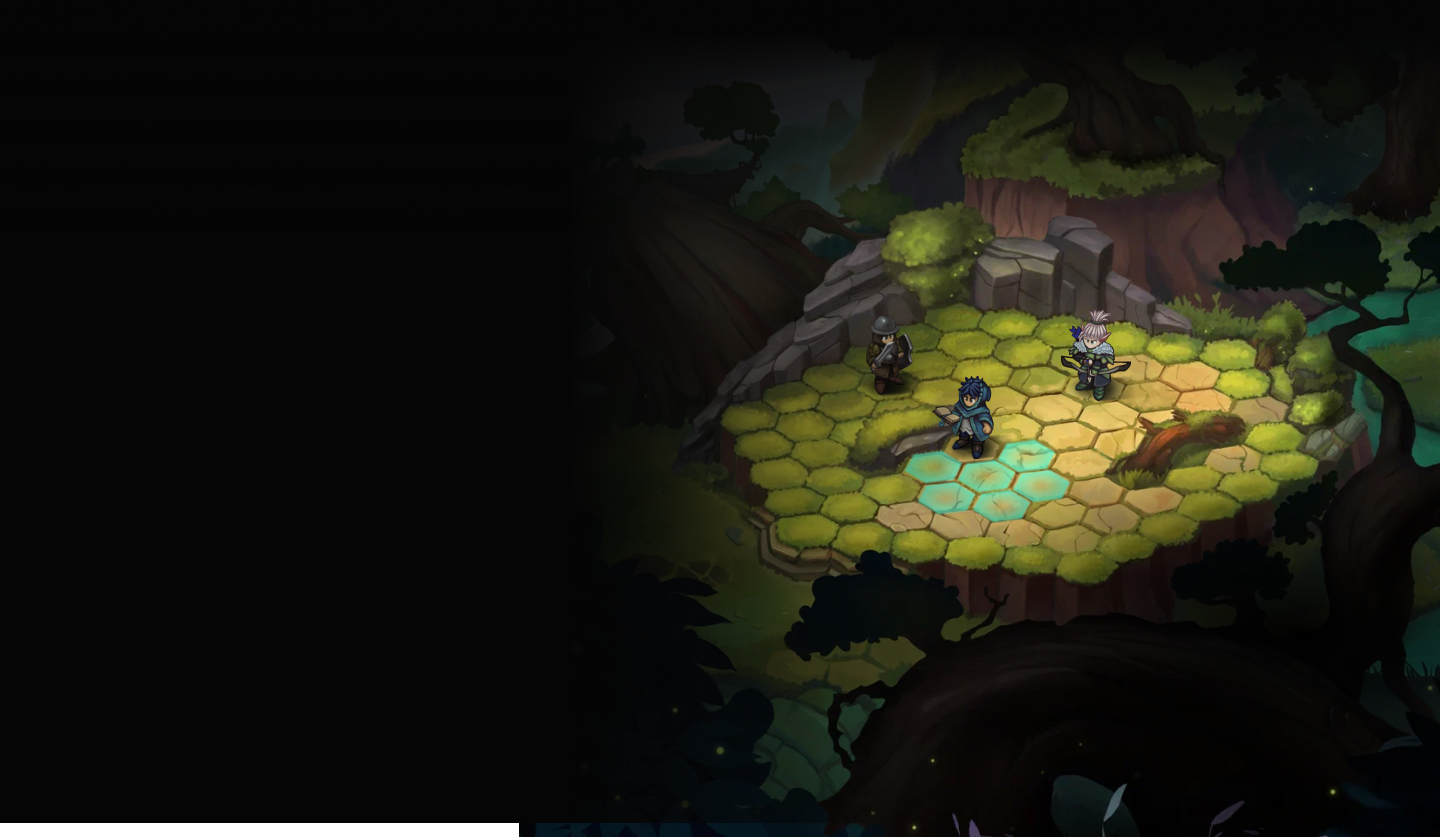
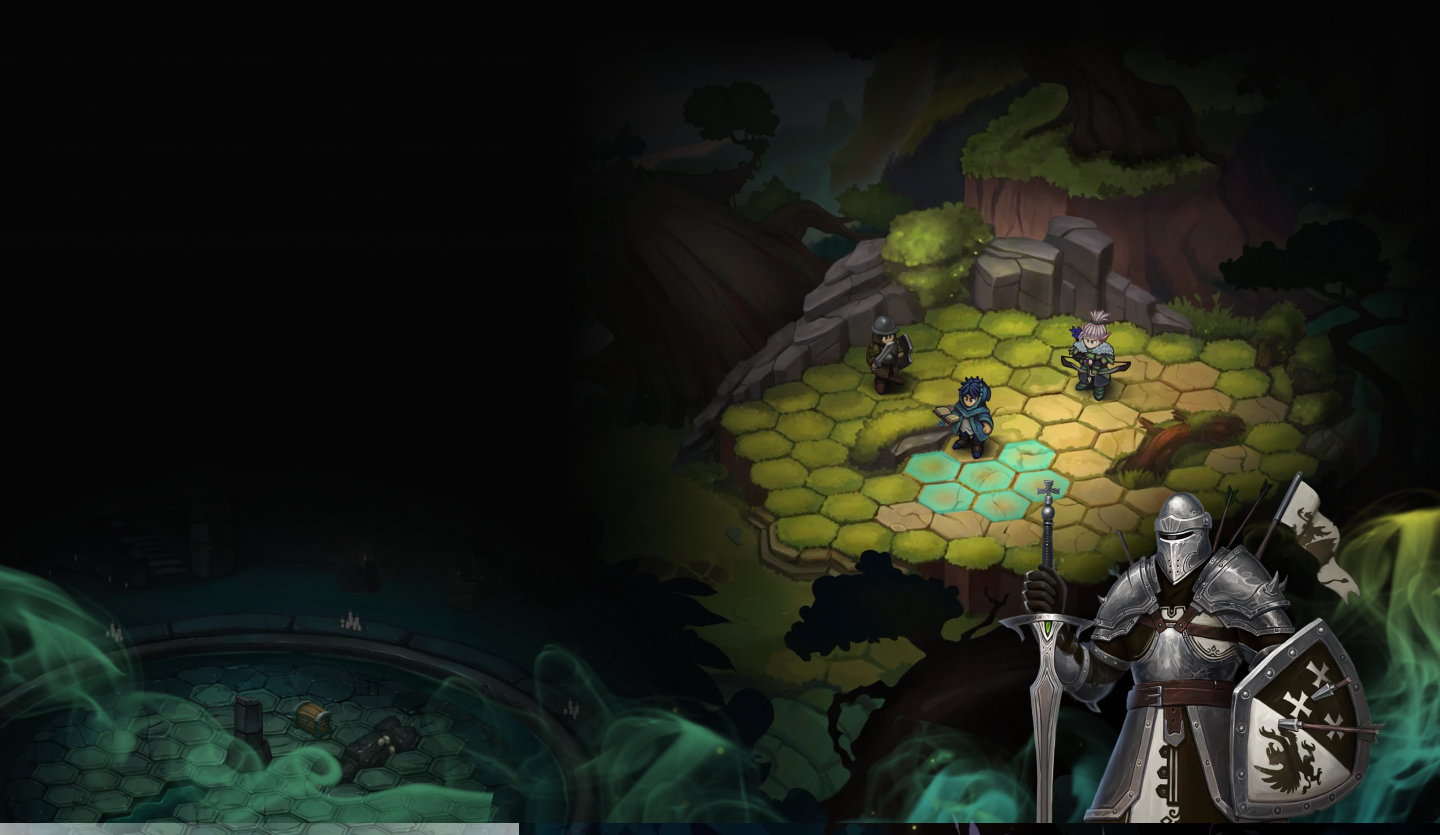
initial

Changed region(s): [[0.5938, 0.2491, 1.0, 1.0], [0.0, 0.685, 0.5312, 1.0], [0.375, 0.7784, 0.4062, 0.8096]]

diff --git a/dist/css/style.min.css b/dist/css/style.min.css
@@ -1,1 +1,1 @@
-@font-face{font-family:Antikvarika;font-display:swap;src:url(../fonts/Antikvarika-regular.woff2) format("woff2"),url(../fonts/Antikvarika-regular.woff) format("woff");font-weight:400;font-style:normal}@font-face{font-family:Antikvarika;font-display:swap;src:url(../fonts/Antikvarika-regular.woff2) format("woff2"),url(../fonts/Antikvarika-regular.woff) format("woff");font-weight:400;font-style:normal}@font-face{font-family:Jura;font-display:swap;src:url(../fonts/Jura-Bold.woff2) format("woff2"),url(../fonts/Jura-Bold.woff) format("woff");font-weight:700;font-style:normal}@font-face{font-family:Jura;font-display:swap;src:url(../fonts/Jura-Bold.woff2) format("woff2"),url(../fonts/Jura-Bold.woff) format("woff");font-weight:700;font-style:normal}@font-face{font-family:Nunito;font-display:swap;src:url(../fonts/Nunito-Bold.woff2) format("woff2"),url(../fonts/Nunito-Bold.woff) format("woff");font-weight:700;font-style:normal}@font-face{font-family:Nunito;font-display:swap;src:url(../fonts/Nunito-Regular.woff2) format("woff2"),url(../fonts/Nunito-Regular.woff) format("woff");font-weight:400;font-style:normal}@font-face{font-family:Nunito;font-display:swap;src:url(../fonts/Nunito-SemiBold.woff2) format("woff2"),url(../fonts/Nunito-SemiBold.woff) format("woff");font-weight:600;font-style:normal}@font-face{font-family:Nunito;font-display:swap;src:url(../fonts/Nunito-Regular.woff2) format("woff2"),url(../fonts/Nunito-Regular.woff) format("woff");font-weight:400;font-style:normal}@font-face{font-family:Nunito;font-display:swap;src:url(../fonts/Nunito-SemiBold.woff2) format("woff2"),url(../fonts/Nunito-SemiBold.woff) format("woff");font-weight:600;font-style:normal}@font-face{font-family:Nunito;font-display:swap;src:url(../fonts/Nunito-Bold.woff2) format("woff2"),url(../fonts/Nunito-Bold.woff) format("woff");font-weight:700;font-style:normal}.container{width:100%;margin-right:auto;margin-left:auto;padding-right:15px;padding-left:15px}.header{height:104px;width:100%;display:-webkit-box;display:-ms-flexbox;display:flex;position:relative;isolation:isolate;overflow:hidden;z-index:50}.no-webp .header::before{background:url(../img/header-overlay.png)}.header::before{content:"";position:absolute;top:0;left:0;width:100%;height:100%;z-index:-2;background-size:100% 100%!important;background-repeat:no-repeat!important}.header__nav{display:-webkit-box;display:-ms-flexbox;display:flex;-webkit-box-align:stretch;-ms-flex-align:stretch;align-items:stretch;-webkit-box-pack:start;-ms-flex-pack:start;justify-content:flex-start;z-index:51}.header__logo{width:0;height:71px;margin-top:12px;-webkit-transition:.3s ease-out;-o-transition:.3s ease-out;transition:.3s ease-out}.header__logo:not(.menu-open){-webkit-filter:drop-shadow(0 4px 12px rgba(0, 0, 0, .6));filter:drop-shadow(0 4px 12px rgba(0, 0, 0, .6))}.header__logo img{width:71px;height:100%}.header__list{display:-webkit-box;display:-ms-flexbox;display:flex;-webkit-box-align:stretch;-ms-flex-align:stretch;align-items:stretch;-webkit-box-pack:center;-ms-flex-pack:center;justify-content:center;row-gap:24px;width:100%}.header__li{display:-webkit-box;display:-ms-flexbox;display:flex;-webkit-box-align:stretch;-ms-flex-align:stretch;align-items:stretch;-webkit-box-pack:center;-ms-flex-pack:center;justify-content:center}.header__link{z-index:1;isolation:isolate;padding:0 18px;display:-webkit-box;display:-ms-flexbox;display:flex;-webkit-box-align:center;-ms-flex-align:center;align-items:center;-webkit-box-pack:center;-ms-flex-pack:center;justify-content:center;padding-bottom:12px;text-decoration:none;overflow:hidden;position:relative;font-weight:400;font-size:20px;line-height:27px;color:#fff}.header__link:hover .header__link-hover{opacity:1;visibility:visible}.no-webp .header__link .header__link-hover{background:url(../img/header-hover.png)}.header__link .header__link-hover{-webkit-transition:.3s ease-out opacity;-o-transition:.3s ease-out opacity;transition:.3s ease-out opacity;position:absolute;opacity:0;visibility:hidden;top:0;left:0;width:100%;height:100%;z-index:-1;background-size:100% 100%!important;background-repeat:no-repeat!important}.no-webp .header__link.active .header__link-bg{background:url(../img/header-bg.png)}.header__link.active .header__link-bg{position:absolute;top:0;left:0;width:100%;height:100%;z-index:-1;background-size:100% 100%!important;background-repeat:no-repeat!important}.header__button{width:30px;height:22px;position:relative;border:none;outline:0;background:0 0;display:none;-webkit-filter:drop-shadow(0 1px 4px rgba(0, 0, 0, .8));filter:drop-shadow(0 1px 4px rgba(0, 0, 0, .8))}.header__button.open{-webkit-filter:none;filter:none}.header__button.open .header__button-line,.header__button.open::before{top:50%;left:50%;-webkit-transform:translate(-50%,-50%) rotate(135deg);-ms-transform:translate(-50%,-50%) rotate(135deg);transform:translate(-50%,-50%) rotate(135deg);background:#0e322f}.header__button.open::after{top:50%;left:50%;-webkit-transform:translate(-50%,-50%) rotate(-135deg);-ms-transform:translate(-50%,-50%) rotate(-135deg);transform:translate(-50%,-50%) rotate(-135deg);background:#0e322f}.header__button-line,.header__button::after,.header__button::before{-webkit-transition:.5s;-o-transition:.5s;transition:.5s;position:absolute;content:"";left:0;width:100%;height:2px;background:#fff;border-radius:1px}.header__button::before{top:0}.header__button::after{bottom:0}.header__button-line{top:50%;-webkit-transform:translateY(-50%);-ms-transform:translateY(-50%);transform:translateY(-50%)}.header__menu{display:none}.header__menu-list{-webkit-box-flex:1;-ms-flex:1 1 auto;flex:1 1 auto;display:-webkit-box;display:-ms-flexbox;display:flex;-webkit-box-orient:vertical;-webkit-box-direction:normal;-ms-flex-direction:column;flex-direction:column;-webkit-box-align:center;-ms-flex-align:center;align-items:center;-webkit-box-pack:center;-ms-flex-pack:center;justify-content:center;list-style-type:none;row-gap:24px}.header__menu-link{font-family:Antikvarika;font-style:normal;font-weight:400;font-size:28px;line-height:32px;text-align:center;color:#0e322f;text-decoration:none}.header__menu-soc{width:100%;height:212px;display:-webkit-box;display:-ms-flexbox;display:flex;-webkit-box-orient:vertical;-webkit-box-direction:normal;-ms-flex-direction:column;flex-direction:column;-webkit-box-align:center;-ms-flex-align:center;align-items:center;-webkit-box-pack:center;-ms-flex-pack:center;justify-content:center;gap:24px;padding-top:14px;border-top:1px solid #e2e6e6}.header__menu-soc-title{font-weight:400;font-size:16px;line-height:22px;color:#0e322f}.header__menu-soc-row{display:-webkit-box;display:-ms-flexbox;display:flex;-webkit-box-align:center;-ms-flex-align:center;align-items:center;-webkit-box-pack:center;-ms-flex-pack:center;justify-content:center;gap:12px}.header__menu-soc-item{display:-webkit-box;display:-ms-flexbox;display:flex;-webkit-box-align:center;-ms-flex-align:center;align-items:center;-webkit-box-pack:center;-ms-flex-pack:center;justify-content:center;width:56px;height:56px;background:rgba(14,50,47,.12);border-radius:50%}*{margin:0;padding:0;-webkit-box-sizing:border-box;box-sizing:border-box;-webkit-tap-highlight-color:transparent;font-family:Nunito,sans-serif}:active,:focus{outline:0}body,html{height:100%}.wrapper{min-height:100%;display:-webkit-box;display:-ms-flexbox;display:flex;-webkit-box-orient:vertical;-webkit-box-direction:normal;-ms-flex-direction:column;flex-direction:column}.wrapper .main{-webkit-box-flex:1;-ms-flex:1 1 auto;flex:1 1 auto}button{background:0 0;border:none;cursor:pointer}body{background:#000}@media (min-width:576px){.container{max-width:540px}}@media (min-width:768px){.container{max-width:720px}}@media (min-width:992px){.container{max-width:960px}}@media (min-width:1200px){.container{max-width:1140px}}@media (min-width:1400px){.container{max-width:1320px}}@media (max-width:1440px){.header::before{background-size:auto 100%!important}.header__link .header__link-hover{background-size:auto 100%!important}.header__link.active .header__link-bg{background-size:auto 100%!important}}@media (max-width:1200px){.header__nav{-webkit-box-align:center;-ms-flex-align:center;align-items:center;-webkit-box-pack:justify;-ms-flex-pack:justify;justify-content:space-between;padding-bottom:12px}.header__logo{width:71px;margin-top:0}.header__logo img{width:100%}.header__list{display:none}.header__button{display:block}.header__menu{display:-webkit-box;display:-ms-flexbox;display:flex;-webkit-box-orient:vertical;-webkit-box-direction:normal;-ms-flex-direction:column;flex-direction:column;-webkit-box-align:center;-ms-flex-align:center;align-items:center;-webkit-box-pack:justify;-ms-flex-pack:justify;justify-content:space-between;position:fixed;top:0;bottom:0;right:0;width:100%;height:100%;background:#fff;z-index:50;padding-top:40px;opacity:0;visibility:hidden;-webkit-transition:.3s ease-out;-o-transition:.3s ease-out;transition:.3s ease-out}.header__menu.open{opacity:1;visibility:visible}}@media (max-width:576px){.header__logo{width:56px;height:56px}.header__button{width:20px;height:14px}}.webp .header::before{background:url(../img/header-overlay.webp)}.webp .header__link .header__link-hover{background:url(../img/header-hover.webp)}.webp .header__link.active .header__link-bg{background:url(../img/header-bg.webp)}
+@font-face{font-family:Antikvarika;font-display:swap;src:url(../fonts/Antikvarika-regular.woff2) format("woff2"),url(../fonts/Antikvarika-regular.woff) format("woff");font-weight:400;font-style:normal}@font-face{font-family:Antikvarika;font-display:swap;src:url(../fonts/Antikvarika-regular.woff2) format("woff2"),url(../fonts/Antikvarika-regular.woff) format("woff");font-weight:400;font-style:normal}@font-face{font-family:Jura;font-display:swap;src:url(../fonts/Jura-Bold.woff2) format("woff2"),url(../fonts/Jura-Bold.woff) format("woff");font-weight:700;font-style:normal}@font-face{font-family:Jura;font-display:swap;src:url(../fonts/Jura-Bold.woff2) format("woff2"),url(../fonts/Jura-Bold.woff) format("woff");font-weight:700;font-style:normal}@font-face{font-family:Nunito;font-display:swap;src:url(../fonts/Nunito-Bold.woff2) format("woff2"),url(../fonts/Nunito-Bold.woff) format("woff");font-weight:700;font-style:normal}@font-face{font-family:Nunito;font-display:swap;src:url(../fonts/Nunito-Regular.woff2) format("woff2"),url(../fonts/Nunito-Regular.woff) format("woff");font-weight:400;font-style:normal}@font-face{font-family:Nunito;font-display:swap;src:url(../fonts/Nunito-SemiBold.woff2) format("woff2"),url(../fonts/Nunito-SemiBold.woff) format("woff");font-weight:600;font-style:normal}@font-face{font-family:Nunito;font-display:swap;src:url(../fonts/Nunito-Regular.woff2) format("woff2"),url(../fonts/Nunito-Regular.woff) format("woff");font-weight:400;font-style:normal}@font-face{font-family:Nunito;font-display:swap;src:url(../fonts/Nunito-SemiBold.woff2) format("woff2"),url(../fonts/Nunito-SemiBold.woff) format("woff");font-weight:600;font-style:normal}@font-face{font-family:Nunito;font-display:swap;src:url(../fonts/Nunito-Bold.woff2) format("woff2"),url(../fonts/Nunito-Bold.woff) format("woff");font-weight:700;font-style:normal}.container{width:100%;margin-right:auto;margin-left:auto;padding-right:15px;padding-left:15px}.header{height:104px;width:100%;display:-webkit-box;display:-ms-flexbox;display:flex;position:relative;isolation:isolate;overflow:hidden;z-index:50}.no-webp .header::before{background:url(../img/header-overlay.png)}.header::before{content:"";position:absolute;top:0;left:0;width:100%;height:100%;z-index:-2;background-size:100% 100%!important;background-repeat:no-repeat!important}.header__nav{display:-webkit-box;display:-ms-flexbox;display:flex;-webkit-box-align:stretch;-ms-flex-align:stretch;align-items:stretch;-webkit-box-pack:start;-ms-flex-pack:start;justify-content:flex-start;z-index:51}.header__logo{width:0;height:71px;margin-top:12px;-webkit-transition:.3s ease-out;-o-transition:.3s ease-out;transition:.3s ease-out}.header__logo:not(.menu-open){-webkit-filter:drop-shadow(0 4px 12px rgba(0, 0, 0, .6));filter:drop-shadow(0 4px 12px rgba(0, 0, 0, .6))}.header__logo img{width:71px;height:100%}.header__list{display:-webkit-box;display:-ms-flexbox;display:flex;-webkit-box-align:stretch;-ms-flex-align:stretch;align-items:stretch;-webkit-box-pack:center;-ms-flex-pack:center;justify-content:center;row-gap:24px;width:100%}.header__li{display:-webkit-box;display:-ms-flexbox;display:flex;-webkit-box-align:stretch;-ms-flex-align:stretch;align-items:stretch;-webkit-box-pack:center;-ms-flex-pack:center;justify-content:center}.header__link{z-index:1;isolation:isolate;padding:0 18px;display:-webkit-box;display:-ms-flexbox;display:flex;-webkit-box-align:center;-ms-flex-align:center;align-items:center;-webkit-box-pack:center;-ms-flex-pack:center;justify-content:center;padding-bottom:12px;text-decoration:none;overflow:hidden;position:relative;font-weight:400;font-size:20px;line-height:27px;color:#fff}.header__link:hover .header__link-hover{opacity:1;visibility:visible}.no-webp .header__link .header__link-hover{background:url(../img/header-hover.png)}.header__link .header__link-hover{-webkit-transition:.3s ease-out opacity;-o-transition:.3s ease-out opacity;transition:.3s ease-out opacity;position:absolute;opacity:0;visibility:hidden;top:0;left:0;width:100%;height:100%;z-index:-1;background-size:100% 100%!important;background-repeat:no-repeat!important}.no-webp .header__link.active .header__link-bg{background:url(../img/header-bg.png)}.header__link.active .header__link-bg{position:absolute;top:0;left:0;width:100%;height:100%;z-index:-1;background-size:100% 100%!important;background-repeat:no-repeat!important}.header__button{width:30px;height:22px;position:relative;border:none;outline:0;background:0 0;display:none;-webkit-filter:drop-shadow(0 1px 4px rgba(0, 0, 0, .8));filter:drop-shadow(0 1px 4px rgba(0, 0, 0, .8))}.header__button.open{-webkit-filter:none;filter:none}.header__button.open .header__button-line,.header__button.open::before{top:50%;left:50%;-webkit-transform:translate(-50%,-50%) rotate(135deg);-ms-transform:translate(-50%,-50%) rotate(135deg);transform:translate(-50%,-50%) rotate(135deg);background:#0e322f}.header__button.open::after{top:50%;left:50%;-webkit-transform:translate(-50%,-50%) rotate(-135deg);-ms-transform:translate(-50%,-50%) rotate(-135deg);transform:translate(-50%,-50%) rotate(-135deg);background:#0e322f}.header__button-line,.header__button::after,.header__button::before{-webkit-transition:.5s;-o-transition:.5s;transition:.5s;position:absolute;content:"";left:0;width:100%;height:2px;background:#fff;border-radius:1px}.header__button::before{top:0}.header__button::after{bottom:0}.header__button-line{top:50%;-webkit-transform:translateY(-50%);-ms-transform:translateY(-50%);transform:translateY(-50%)}.header__menu{display:none}.header__menu-list{-webkit-box-flex:1;-ms-flex:1 1 auto;flex:1 1 auto;display:-webkit-box;display:-ms-flexbox;display:flex;-webkit-box-orient:vertical;-webkit-box-direction:normal;-ms-flex-direction:column;flex-direction:column;-webkit-box-align:center;-ms-flex-align:center;align-items:center;-webkit-box-pack:center;-ms-flex-pack:center;justify-content:center;list-style-type:none;row-gap:24px}.header__menu-link{font-family:Antikvarika;font-style:normal;font-weight:400;font-size:28px;line-height:32px;text-align:center;color:#0e322f;text-decoration:none}.header__menu-soc{width:100%;height:212px;display:-webkit-box;display:-ms-flexbox;display:flex;-webkit-box-orient:vertical;-webkit-box-direction:normal;-ms-flex-direction:column;flex-direction:column;-webkit-box-align:center;-ms-flex-align:center;align-items:center;-webkit-box-pack:center;-ms-flex-pack:center;justify-content:center;gap:24px;padding-top:14px;border-top:1px solid #e2e6e6}.header__menu-soc-title{font-weight:400;font-size:16px;line-height:22px;color:#0e322f}.header__menu-soc-row{display:-webkit-box;display:-ms-flexbox;display:flex;-webkit-box-align:center;-ms-flex-align:center;align-items:center;-webkit-box-pack:center;-ms-flex-pack:center;justify-content:center;gap:12px}.header__menu-soc-item{display:-webkit-box;display:-ms-flexbox;display:flex;-webkit-box-align:center;-ms-flex-align:center;align-items:center;-webkit-box-pack:center;-ms-flex-pack:center;justify-content:center;width:56px;height:56px;background:rgba(14,50,47,.12);border-radius:50%}.no-webp .intro{background:url(../img/intro-bg.png)}.intro{height:100vh}*{margin:0;padding:0;-webkit-box-sizing:border-box;box-sizing:border-box;-webkit-tap-highlight-color:transparent;font-family:Nunito,sans-serif}:active,:focus{outline:0}body,html{height:100%}.wrapper{min-height:100%;display:-webkit-box;display:-ms-flexbox;display:flex;-webkit-box-orient:vertical;-webkit-box-direction:normal;-ms-flex-direction:column;flex-direction:column}.wrapper .main{-webkit-box-flex:1;-ms-flex:1 1 auto;flex:1 1 auto}button{background:0 0;border:none;cursor:pointer}body{background:#000}@media (min-width:576px){.container{max-width:540px}}@media (min-width:768px){.container{max-width:720px}}@media (min-width:992px){.container{max-width:960px}}@media (min-width:1200px){.container{max-width:1140px}}@media (min-width:1400px){.container{max-width:1320px}}@media (max-width:1440px){.header::before{background-size:auto 100%!important}.header__link .header__link-hover{background-size:auto 100%!important}.header__link.active .header__link-bg{background-size:auto 100%!important}}@media (max-width:1200px){.header__nav{-webkit-box-align:center;-ms-flex-align:center;align-items:center;-webkit-box-pack:justify;-ms-flex-pack:justify;justify-content:space-between;padding-bottom:12px}.header__logo{width:71px;margin-top:0}.header__logo img{width:100%}.header__list{display:none}.header__button{display:block}.header__menu{display:-webkit-box;display:-ms-flexbox;display:flex;-webkit-box-orient:vertical;-webkit-box-direction:normal;-ms-flex-direction:column;flex-direction:column;-webkit-box-align:center;-ms-flex-align:center;align-items:center;-webkit-box-pack:justify;-ms-flex-pack:justify;justify-content:space-between;position:fixed;top:0;bottom:0;right:0;width:100%;height:100%;background:#fff;z-index:50;padding-top:40px;opacity:0;visibility:hidden;-webkit-transition:.3s ease-out;-o-transition:.3s ease-out;transition:.3s ease-out}.header__menu.open{opacity:1;visibility:visible}}@media (max-width:576px){.header__logo{width:56px;height:56px}.header__button{width:20px;height:14px}}.webp .header::before{background:url(../img/header-overlay.webp)}.webp .header__link .header__link-hover{background:url(../img/header-hover.webp)}.webp .header__link.active .header__link-bg{background:url(../img/header-bg.webp)}.webp .intro{background:url(../img/intro-bg.webp)}

diff --git a/dist/index.html b/dist/index.html
@@ -4,7 +4,7 @@
     <meta charset="UTF-8">
     <meta http-equiv="X-UA-Compatible" content="IE=edge">
     <meta name="viewport" content="width=device-width, initial-scale=1.0">
-    <link rel="stylesheet" href="css/style.min.css?_v=20220717170106">
+    <link rel="stylesheet" href="css/style.min.css?_v=20220717190329">
     <title>Fantasy Hearts</title>
   </head>
   <body> 
@@ -43,12 +43,12 @@
               </div>
             </header>
       <main class="main"> 
-        <p>main </p>
+        <div class="intro"> </div>
       </main>
             <footer class="footer">  
               <p>footer</p>
             </footer>
     </div>
-    <script src="js/app.min.js?_v=20220717170106"> </script>
+    <script src="js/app.min.js?_v=20220717190329"> </script>
   </body>
 </html>

diff --git a/dist/css/style.css b/dist/css/style.css
@@ -391,6 +391,13 @@
   border-radius: 50%;
 }
 
+.no-webp .intro {
+  background: url("../img/intro-bg.png"); }
+
+.intro {
+  height: 100vh;
+}
+
 * {
   margin: 0;
   padding: 0;
@@ -562,3 +569,5 @@ body {
 .webp .header__link .header__link-hover { background: url(../img/header-hover.webp); }
 
 .webp .header__link.active .header__link-bg { background: url(../img/header-bg.webp); }
+
+.webp .intro { background: url(../img/intro-bg.webp); }

diff --git a/src/scss/style.scss b/src/scss/style.scss
@@ -25,6 +25,7 @@
     'layout/header',
     'layout/footer',
     'layout/sidebar',
+    'layout/intro',
     'layout/forms';
 
 // components

diff --git a/src/scss/layout/_intro.scss b/src/scss/layout/_intro.scss
@@ -1,0 +1,4 @@
+.intro{
+    background: url('../img/intro-bg.png');
+    height: 100vh;
+}
